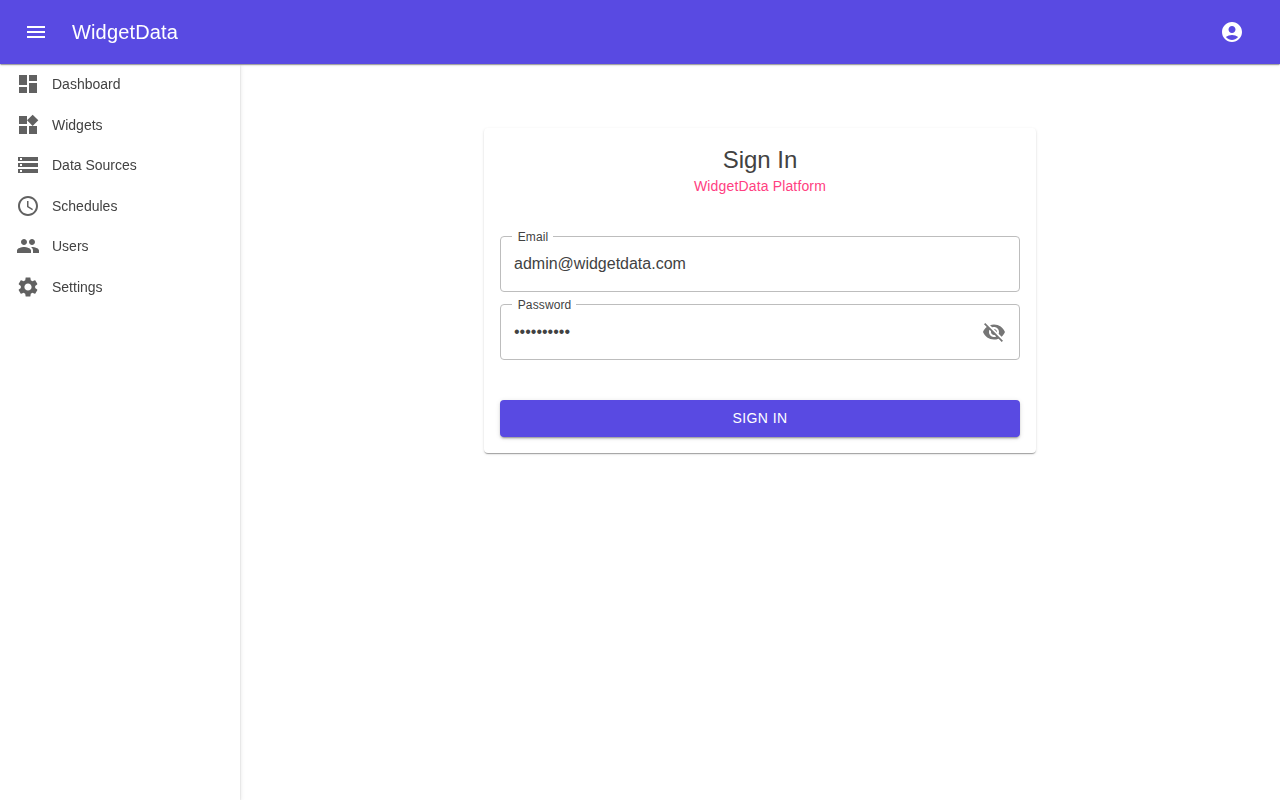
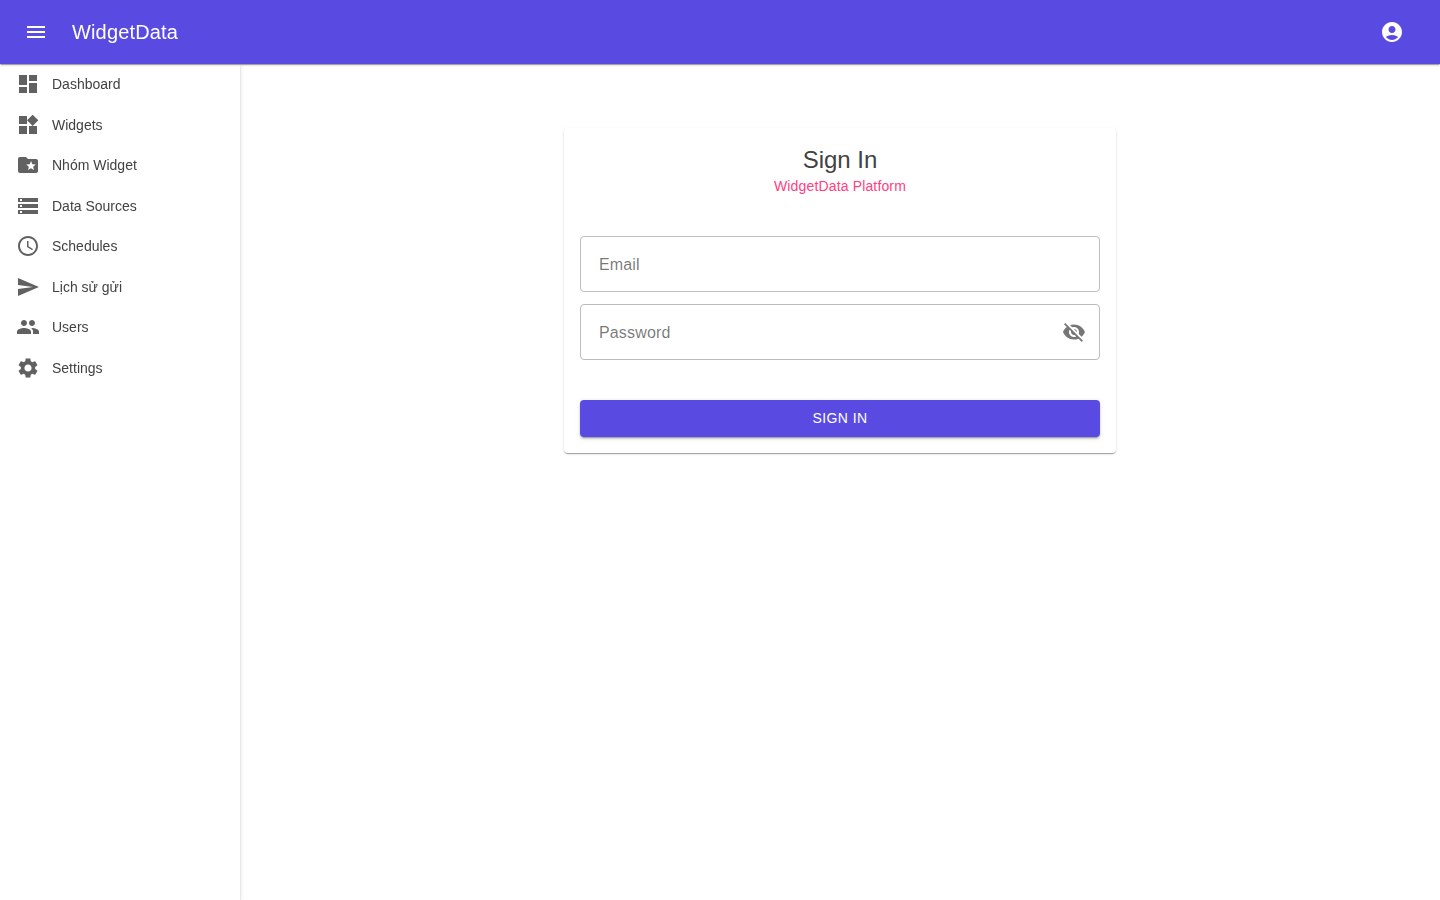
screenshots: add all 10 page screenshots and update screens.md
Agent-Logs-Url: https://github.com/leNam199320xx/WidgetData/sessions/1482d23b-7b26-44de-816a-7e7afbf5347b

diff --git a/doc/screens.md b/doc/screens.md
@@ -9,11 +9,13 @@ Các màn hình được capture từ demo chạy thực tế với dữ liệu 
 | Login | ![Login](screenshots/01_login.png) |
 | Dashboard | ![Dashboard](screenshots/02_dashboard.png) |
 | Widgets | ![Widgets](screenshots/03_widgets.png) |
-| Data Sources | ![Data Sources](screenshots/04_datasources.png) |
-| Schedules | ![Schedules](screenshots/05_schedules.png) |
-| Users | ![Users](screenshots/06_users.png) |
-| Settings | ![Settings](screenshots/07_settings.png) |
-| API Docs (Scalar) | ![API Docs](screenshots/08_api_docs.png) |
+| Nhóm Widget | ![Widget Groups](screenshots/04_widget_groups.png) |
+| Data Sources | ![Data Sources](screenshots/05_datasources.png) |
+| Schedules | ![Schedules](screenshots/06_schedules.png) |
+| Lịch sử gửi | ![Deliveries](screenshots/07_deliveries.png) |
+| Users | ![Users](screenshots/08_users.png) |
+| Settings | ![Settings](screenshots/09_settings.png) |
+| Widget Configure | ![Widget Configure](screenshots/10_widget_configure.png) |
 
 ---
 
